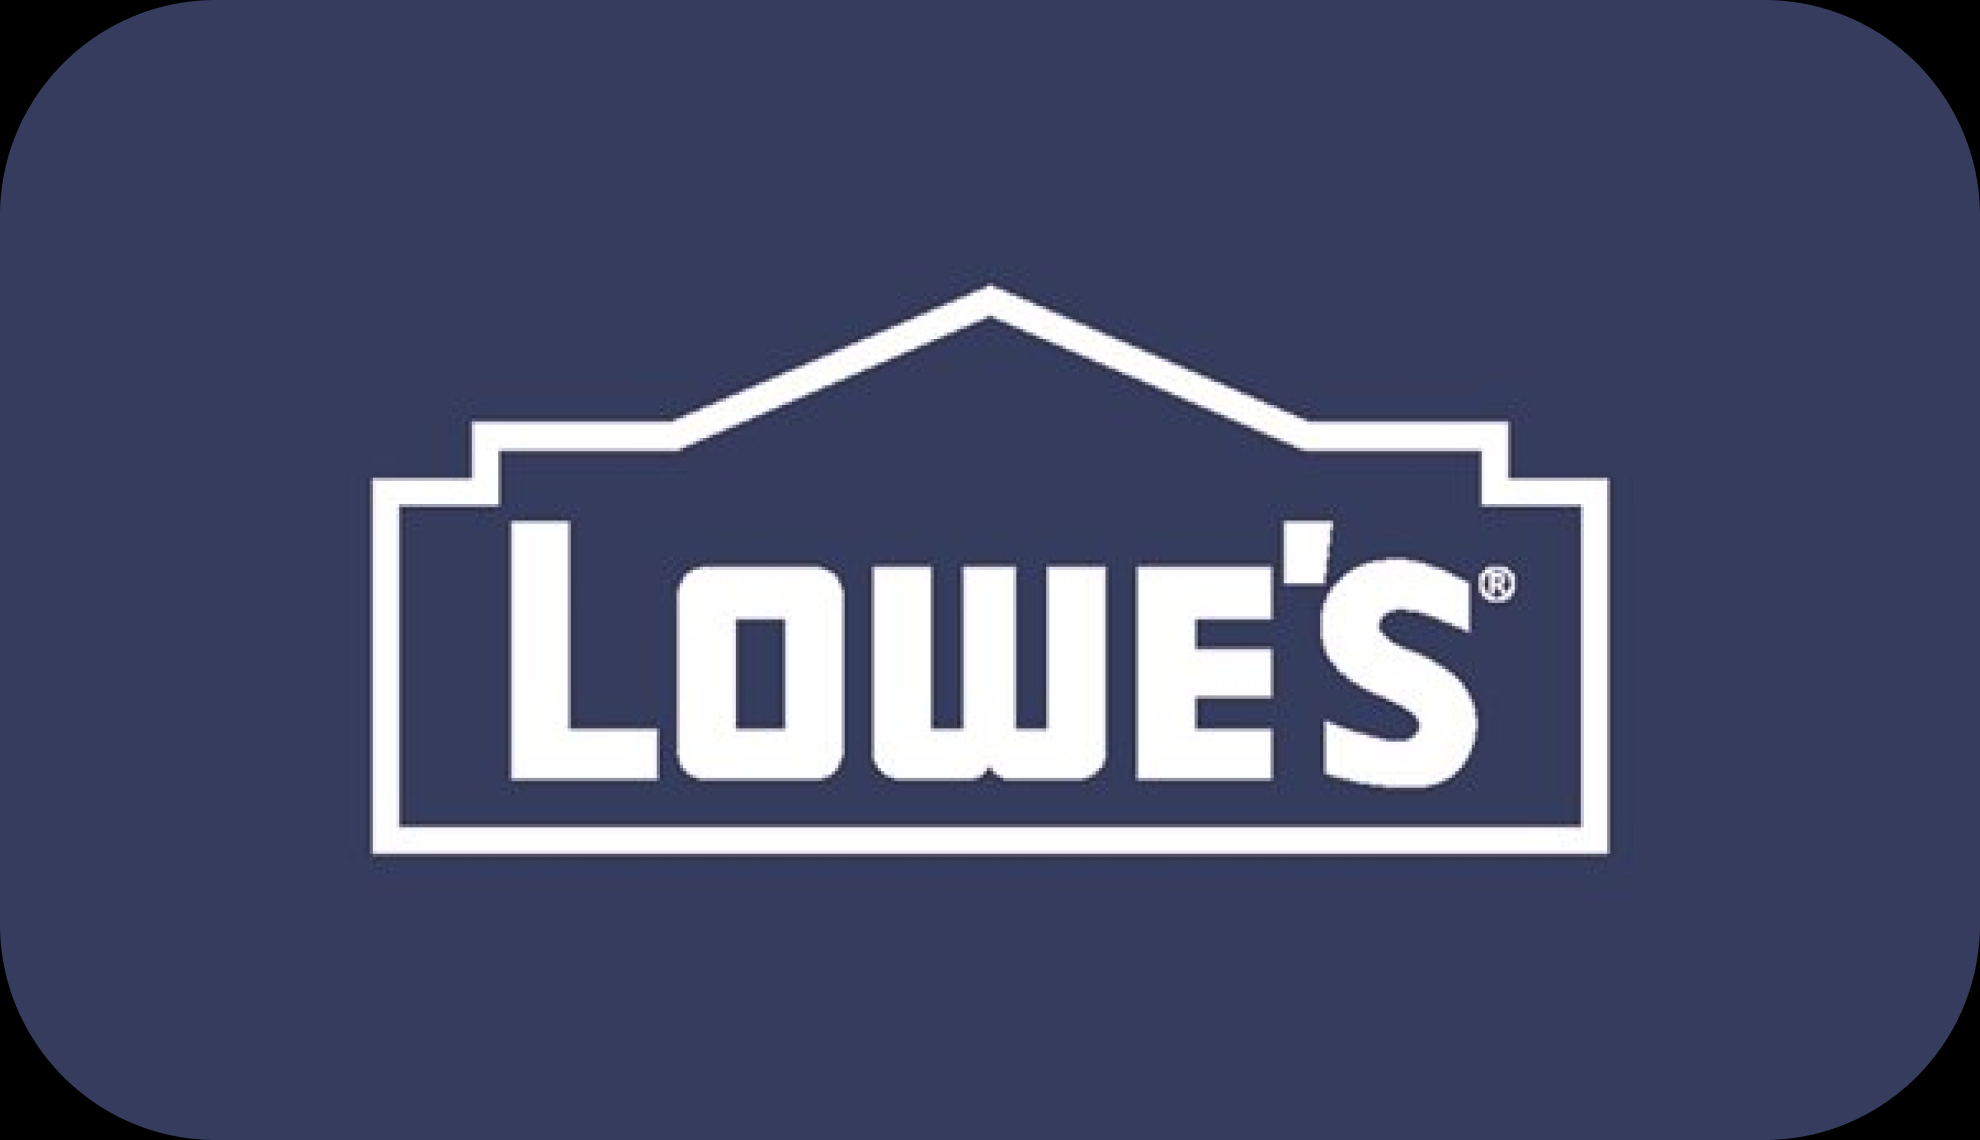
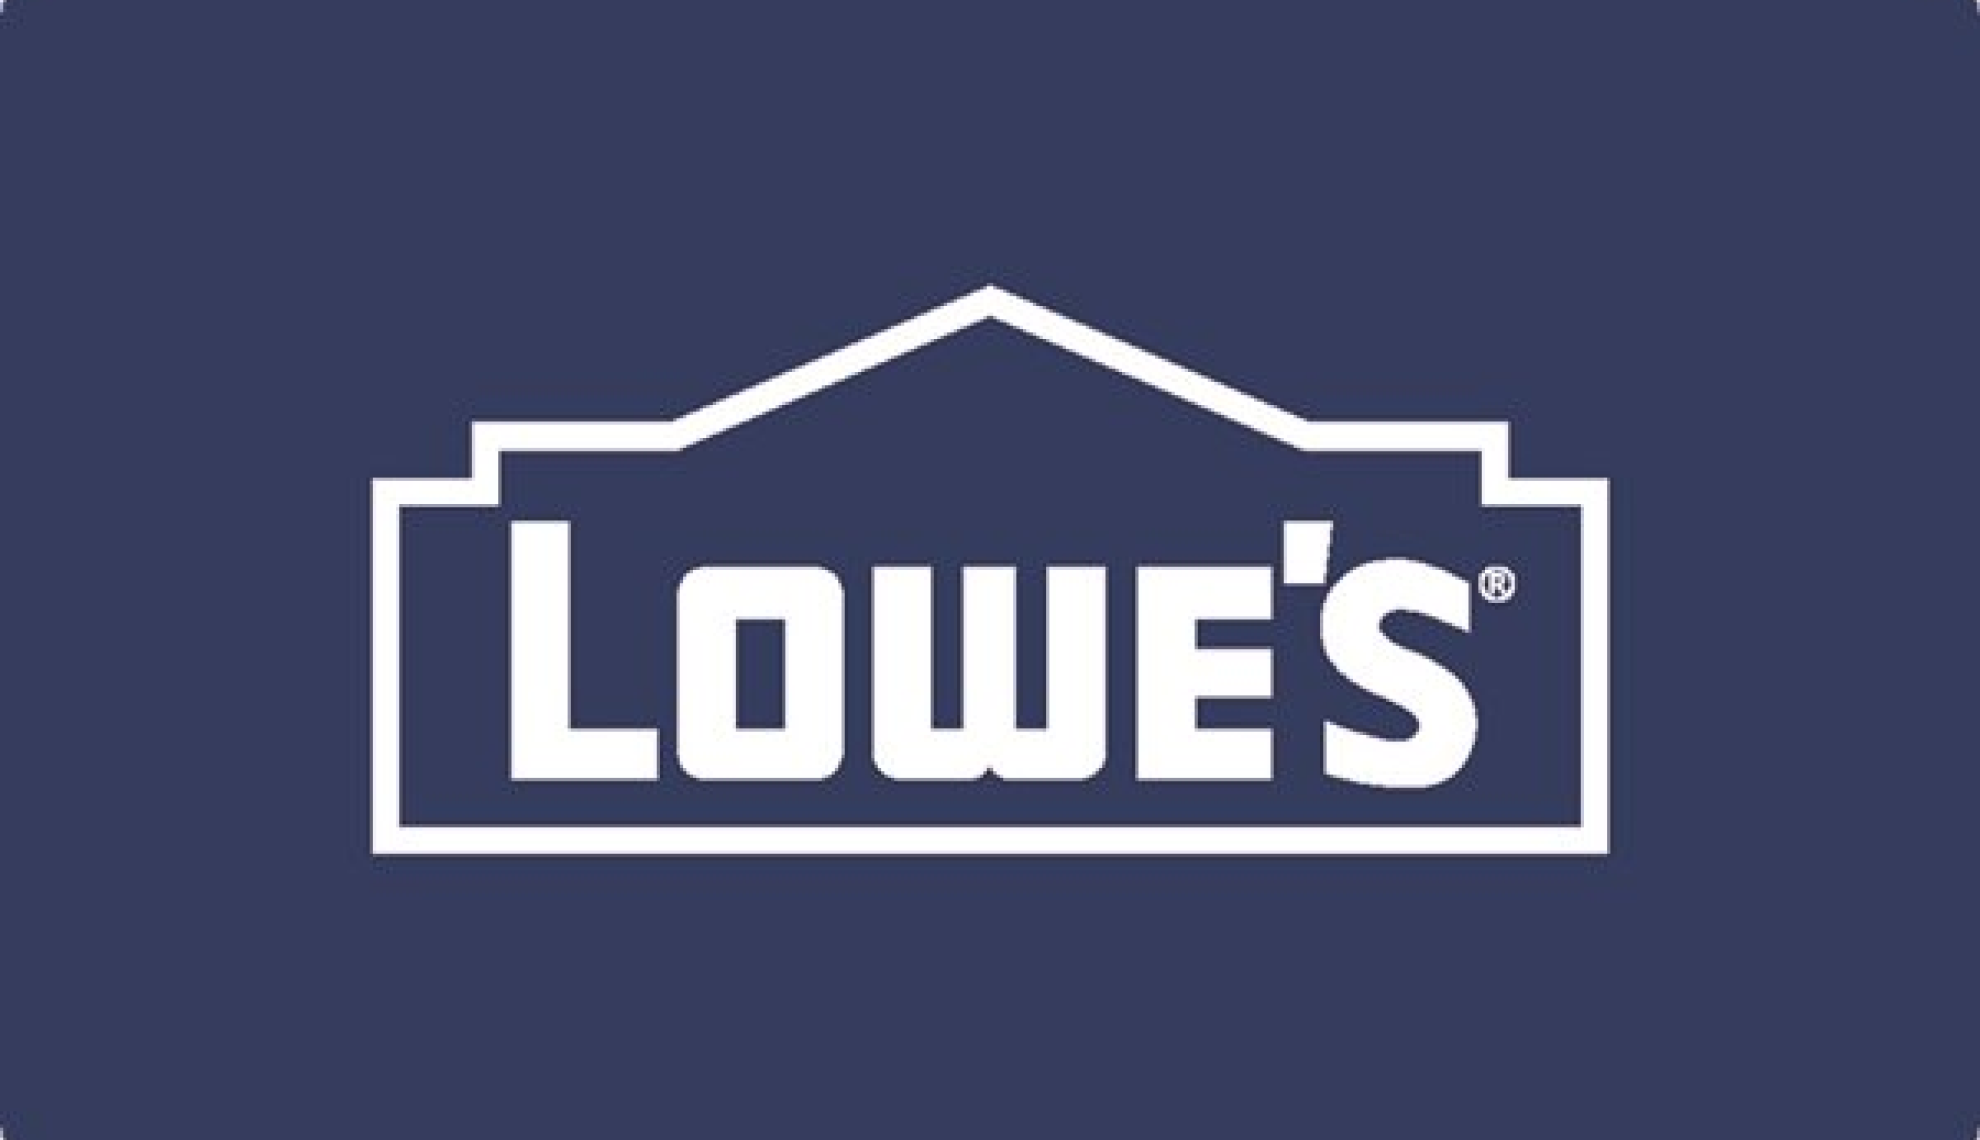
ksjfg

diff --git a/src/store.css b/src/store.css
@@ -7,6 +7,7 @@
 }
 
 .storeCards {
+    background-color: rgba(255, 255, 255, 0.6);
     background: rgba(255, 255, 255, 0.4);
 	border-radius: 16px;
     margin: 20px 16px;
@@ -15,6 +16,10 @@
 
 .img-nuter {
 	height: 150px;
-	width: 100%;
-    border-radius: 30px;
+	width: 90%;
+    border-radius: 10px;
+    translate: 5%;
+    margin-top: 15px;
+    margin-left: 5%;
+    margin-right: 5%;
 }

diff --git a/src/store.jsx b/src/store.jsx
@@ -9,7 +9,7 @@ import {Typography, Button} from '@material-ui/core';
 import amazonGift from './imgs/amazon.png';
 import lowesGift from './imgs/lowes.png';
 import walmartGift from './imgs/walmart.png';
-import cineplexGift from './imgs/cineplex.png';
+import cineplexGift from './imgs/cinplex.jpg';
 
 
 class Store extends React.Component {
